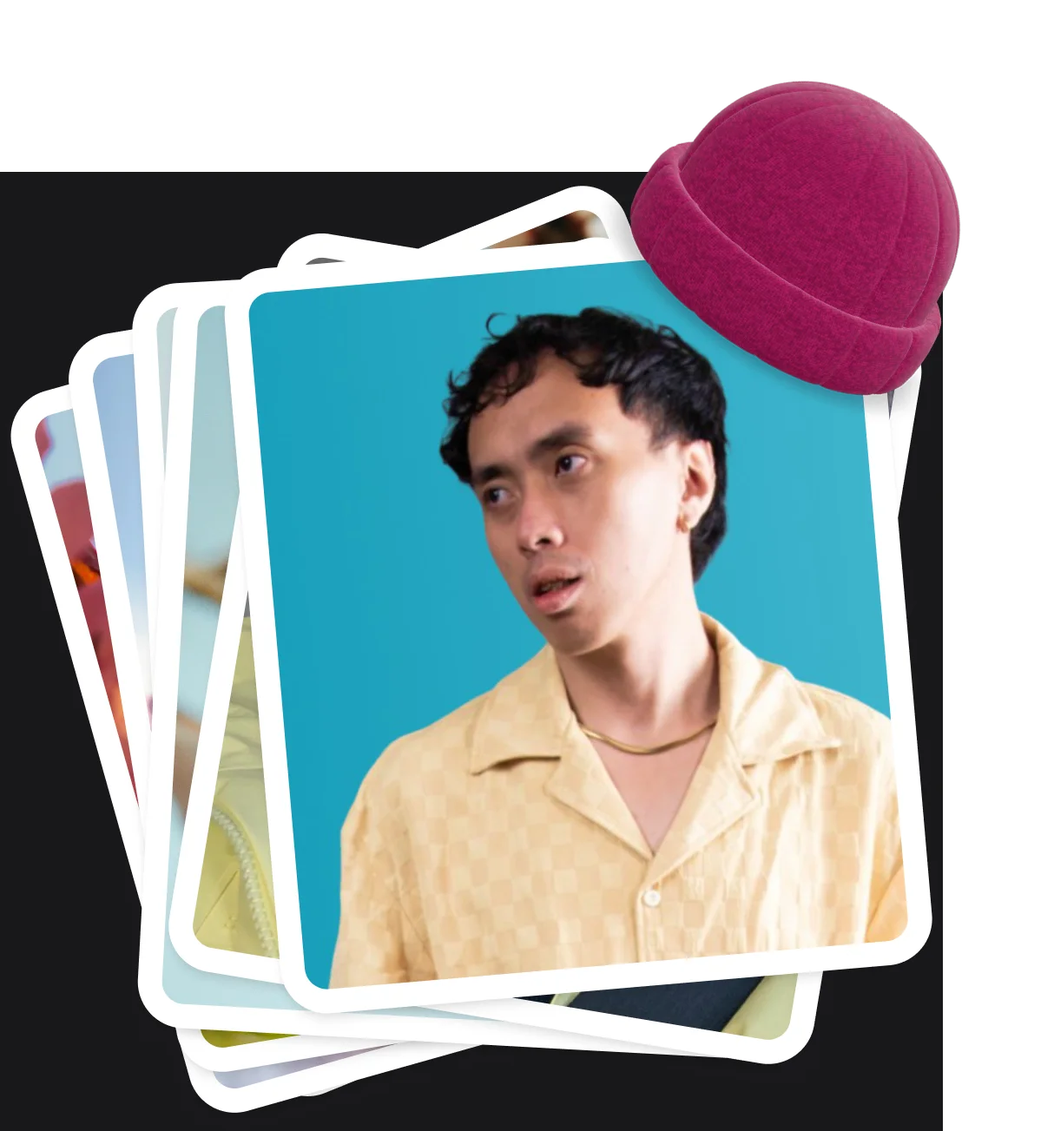
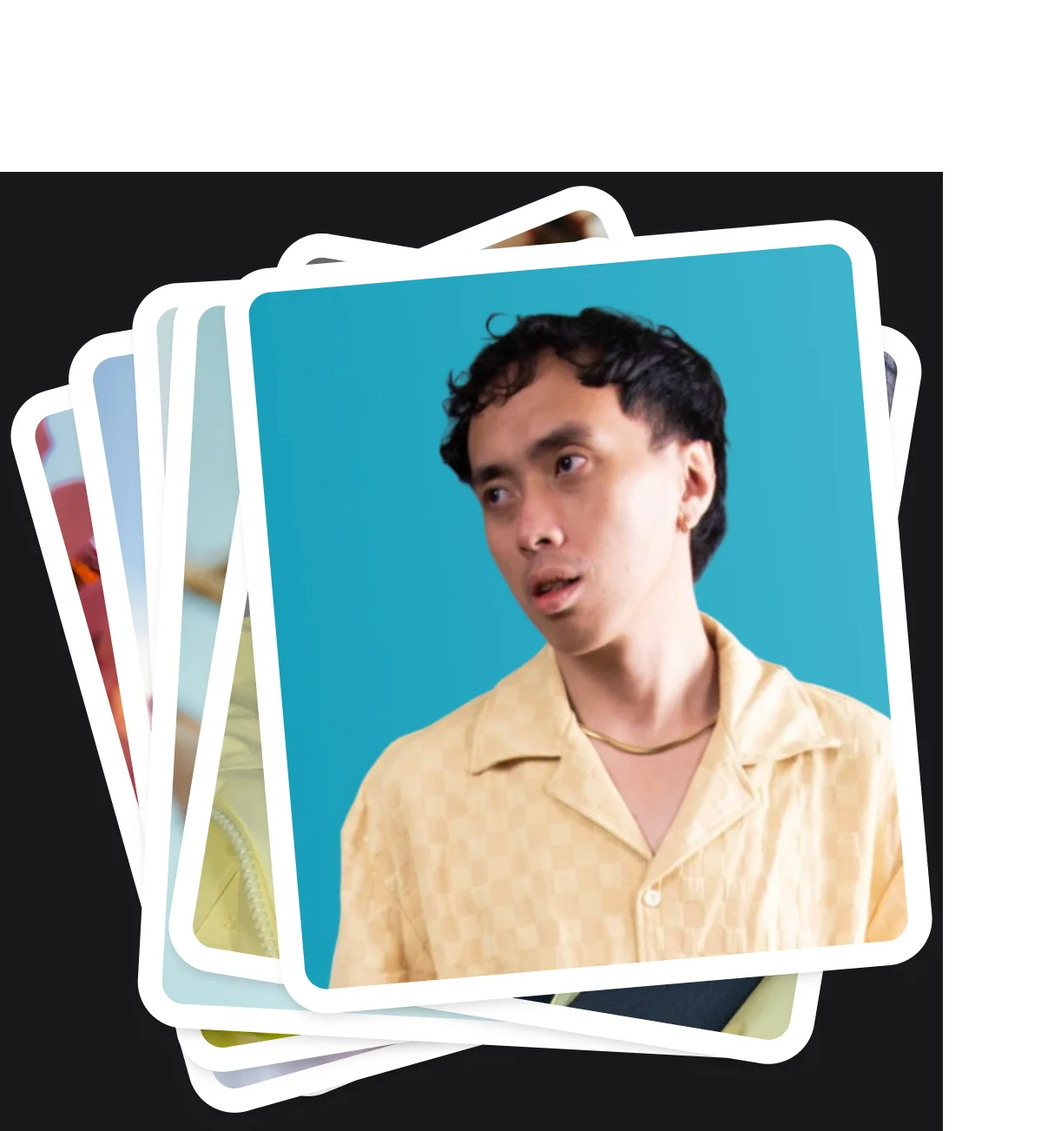
footer to match the design, floating beanie, diamond without shadow

Changed region(s): [[0.5791, 0.0614, 0.9143, 0.3684]]

diff --git a/about.html b/about.html
@@ -50,7 +50,8 @@
     <ul class="about-grid">
       <li class="about-grid-image">
         <figure class="about-image">
-          <img src="/assets/lake-cam--about--photo-stack.webp" width="1214" height="1303" alt="Lake Cam in a yellow shirt against a blue wall, on top of a stack of photos, with a red beanie" />
+          <img src="/assets/lake-cam--about--photo-stack.webp" width="1214" height="1303" alt="Lake Cam in a yellow shirt against a blue wall, on top of a stack of photos" />
+          <img class="about-beanie" src="/assets/lake-cam--about--beanie.webp" width="572" height="542" alt="" />
         </figure>
       </li>
       <li class="about-grid-text">
@@ -225,19 +226,13 @@
             href="mailto:thelakecam@gmail.com"
             aria-label="Email Lake Cam"
           ><span class="button-045__inner" data-button-045-inner="">
-            <svg
-              viewBox="0 0 24 24"
-              fill="none"
-              stroke="currentColor"
-              stroke-width="2"
-              aria-hidden="true"
-              focusable="false"
-            >
-              <path
-                stroke-linecap="round"
-                stroke-linejoin="round"
-                d="M3 8l7.89 5.26a2 2 0 002.22 0L21 8M5 19h14a2 2 0 002-2V7a2 2 0 00-2-2H5a2 2 0 00-2 2v10a2 2 0 002 2z"
-              />
+            <svg viewBox="-1.5 -2 20 20" aria-hidden="true" focusable="false">
+              <path fill="currentColor" d="M12 1H4C2.663 1 1.543 1.881 1.156 3.089L7.504 6.716C7.811 6.892 8.189 6.892 8.496 6.716L14.844 3.089C14.457 1.881 13.337 1 12 1Z" />
+              <g fill="none" stroke="currentColor" stroke-width="2" stroke-linecap="round" stroke-linejoin="round">
+                <path d="M1.156 3.089L7.504 6.716C7.811 6.892 8.189 6.892 8.496 6.716L14.844 3.089" />
+                <path d="M8 15L8.5 12L13.207 7.301C13.598 6.91 14.231 6.91 14.621 7.301L15.707 8.387C16.098 8.778 16.098 9.411 15.707 9.801L11 14.5L8 15Z" />
+                <path d="M14.964 3.644C14.786 2.157 13.535 1 12 1H4C2.343 1 1 2.343 1 4V10C1 11.657 2.343 13 4 13H4.785" />
+              </g>
             </svg>
           </span></a>
           <a
@@ -246,49 +241,8 @@
             aria-label="Lake Cam on LinkedIn"
             target="_blank"
           ><span class="button-045__inner" data-button-045-inner="">
-            <svg
-              viewBox="0 0 24 24"
-              fill="currentColor"
-              aria-hidden="true"
-              focusable="false"
-            >
-              <path
-                d="M19 0h-14c-2.761 0-5 2.239-5 5v14c0 2.761 2.239 5 5 5h14c2.762 0 5-2.239 5-5v-14c0-2.761-2.238-5-5-5zm-11 19h-3v-11h3v11zm-1.5-12.268c-.966 0-1.75-.79-1.75-1.764s.784-1.764 1.75-1.764 1.75.79 1.75 1.764-.783 1.764-1.75 1.764zm13.5 12.268h-3v-5.604c0-3.368-4-3.113-4 0v5.604h-3v-11h3v1.765c1.396-2.586 7-2.777 7 2.476v6.759z"
-              />
-            </svg>
-          </span></a>
-          <a
-            class="social-orb button-045" data-button-045=""
-            href="https://x.com/lakespace"
-            aria-label="Lake Cam on X"
-            target="_blank"
-          ><span class="button-045__inner" data-button-045-inner="">
-            <svg
-              viewBox="0 0 24 24"
-              fill="currentColor"
-              aria-hidden="true"
-              focusable="false"
-            >
-              <path
-                d="M18.244 2.25h3.308l-7.227 8.26 8.502 11.24H16.17l-5.214-6.817L4.99 21.75H1.68l7.73-8.835L1.254 2.25H8.08l4.713 6.231zm-1.161 17.52h1.833L7.084 4.126H5.179z"
-              />
-            </svg>
-          </span></a>
-          <a
-            class="social-orb button-045" data-button-045=""
-            href="https://sublime.app/lakecam"
-            aria-label="Lake Cam on Sublime"
-            target="_blank"
-          ><span class="button-045__inner" data-button-045-inner="">
-            <svg
-              viewBox="3 3 24 24"
-              fill="currentColor"
-              aria-hidden="true"
-              focusable="false"
-            >
-              <path
-                d="M25.982 26.986c0 .006-.165.01-.165.017-.055 0 .055 0 0 0l-21.435-.001a1.32 1.32 0 0 1-.898-.332 1.347 1.347 0 0 1-.48-1.04C3 24.406 3.006 23.183 3 21.961a1.364 1.364 0 0 1 .148-.638c.254-.505.68-.757 1.228-.76 2.173-.013 4.348-.008 6.522-.013.223 0 .453.003.668-.048.345-.08.687-.177 1.01-.336.659-.326 1.188-.784 1.569-1.41.378-.623.615-1.292.58-2.033a6.004 6.004 0 0 0-.079-.797c-.093-.515-.31-.982-.598-1.417-.196-.296-.459-.528-.71-.774-.962-.94-1.92-1.882-2.878-2.824-.345-.338-.684-.685-1.04-1.012-.22-.204-.44-.404-.629-.637-.633-.776-.896-1.663-.795-2.662.038-.371.143-.724.309-1.052a4.165 4.165 0 0 1 1.03-1.326c.534-.452 1.122-.797 1.797-.98.37-.101.743-.186 1.13-.217.326-.027.649-.03.974-.008a5.3 5.3 0 0 1 1.437.309 4.84 4.84 0 0 1 1.814 1.16c.42.43.725.93.915 1.502.013.041.038.08.056.118.019.04.043.077.052.119.086.433.172.867.256 1.3.197 1.006.395 2.011.59 3.017.185.954.366 1.91.547 2.865.072.383.142.765.247 1.141.105.373.314.659.658.832.555.282 1.11.28 1.663-.022.318-.172.525-.424.607-.777.093-.4.19-.8.275-1.202.137-.655.262-1.31.397-1.965.12-.578.252-1.155.372-1.733.1-.476.185-.954.282-1.43.085-.416.177-.83.27-1.246.037-.166.061-.34.13-.493.292-.643 1.034-.932 1.703-.88.332.025.629.144.905.334.392.269.581.634.584 1.1C27 8.206 27 9.344 27 10.484V25.64c-.015.475-.201.864-.599 1.134-.132.09-.286.146-.42.213.352 0-.366 0 0 0Z"
-              />
+            <svg viewBox="0 0 20 20" aria-hidden="true" focusable="false">
+              <path fill="currentColor" d="M15.8333 0H4.16667C1.86583 0 0 1.86583 0 4.16667V15.8333C0 18.1342 1.86583 20 4.16667 20H15.8333C18.135 20 20 18.1342 20 15.8333V4.16667C20 1.86583 18.135 0 15.8333 0ZM6.66667 15.8333H4.16667V6.66667H6.66667V15.8333ZM5.41667 5.61C4.61167 5.61 3.95833 4.95167 3.95833 4.14C3.95833 3.32833 4.61167 2.67 5.41667 2.67C6.22167 2.67 6.875 3.32833 6.875 4.14C6.875 4.95167 6.2225 5.61 5.41667 5.61ZM16.6667 15.8333H14.1667V11.1633C14.1667 8.35667 10.8333 8.56917 10.8333 11.1633V15.8333H8.33333V6.66667H10.8333V8.1375C11.9967 5.9825 16.6667 5.82333 16.6667 10.2008V15.8333Z" />
             </svg>
           </span></a>
           <a
@@ -297,15 +251,28 @@
             aria-label="Lake Cam on GitHub"
             target="_blank"
           ><span class="button-045__inner" data-button-045-inner="">
-            <svg
-              viewBox="0 0 24 24"
-              fill="currentColor"
-              aria-hidden="true"
-              focusable="false"
-            >
-              <path
-                d="M12 0c-6.626 0-12 5.373-12 12 0 5.302 3.438 9.8 8.207 11.387.599.111.793-.261.793-.577v-2.234c-3.338.726-4.033-1.416-4.033-1.416-.546-1.387-1.333-1.756-1.333-1.756-1.089-.745.083-.729.083-.729 1.205.084 1.839 1.237 1.839 1.237 1.07 1.834 2.807 1.304 3.492.997.107-.775.418-1.305.762-1.604-2.665-.305-5.467-1.334-5.467-5.931 0-1.311.469-2.381 1.236-3.221-.124-.303-.535-1.524.117-3.176 0 0 1.008-.322 3.301 1.23.957-.266 1.983-.399 3.003-.404 1.02.005 2.047.138 3.006.404 2.291-1.552 3.297-1.23 3.297-1.23.653 1.653.242 2.874.118 3.176.77.84 1.235 1.911 1.235 3.221 0 4.609-2.807 5.624-5.479 5.921.43.372.823 1.102.823 2.222v3.293c0 .319.192.694.801.576 4.769-1.584 8.2-6.085 8.2-11.386 0-6.627-5.373-12-12-12z"
-              />
+            <svg viewBox="0 -0.25 20 20" aria-hidden="true" focusable="false">
+              <path fill="currentColor" d="M10 0C4.47833 0 0 4.4775 0 10C0 14.4183 2.865 18.1667 6.83917 19.4892C7.33833 19.5817 7.5 19.2717 7.5 19.0083V17.1467C4.71833 17.7517 4.13917 15.9667 4.13917 15.9667C3.68417 14.8108 3.02833 14.5033 3.02833 14.5033C2.12083 13.8825 3.0975 13.8958 3.0975 13.8958C4.10167 13.9658 4.63 14.9267 4.63 14.9267C5.52167 16.455 6.96917 16.0133 7.54 15.7575C7.62917 15.1117 7.88833 14.67 8.175 14.4208C5.95417 14.1667 3.61917 13.3092 3.61917 9.47833C3.61917 8.38583 4.01 7.49417 4.64917 6.79417C4.54583 6.54167 4.20333 5.52417 4.74667 4.1475C4.74667 4.1475 5.58667 3.87917 7.4975 5.1725C8.295 4.95083 9.15 4.84 10 4.83583C10.85 4.84 11.7058 4.95083 12.505 5.1725C14.4142 3.87917 15.2525 4.1475 15.2525 4.1475C15.7967 5.525 15.4542 6.5425 15.3508 6.79417C15.9925 7.49417 16.38 8.38667 16.38 9.47833C16.38 13.3192 14.0408 14.165 11.8142 14.4125C12.1725 14.7225 12.5 15.3308 12.5 16.2642V19.0083C12.5 19.2742 12.66 19.5867 13.1675 19.4883C17.1417 18.1683 20.0008 14.4175 20.0008 10C20.0008 4.4775 15.5233 0 10.0008 0H10Z" />
+            </svg>
+          </span></a>
+          <a
+            class="social-orb button-045" data-button-045=""
+            href="https://x.com/lakespace"
+            aria-label="Lake Cam on X"
+            target="_blank"
+          ><span class="button-045__inner" data-button-045-inner="">
+            <svg viewBox="-1 -1.875 20 20" aria-hidden="true" focusable="false">
+              <path fill="currentColor" d="M14.1583 0H16.915L10.8925 6.88333L17.9775 16.25H12.43L8.085 10.5692L3.11333 16.25H0.355L6.79667 8.8875L0 0H5.68833L9.61583 5.1925L14.1583 0ZM13.1908 14.6H14.7183L4.85833 1.56333H3.27083L13.1908 14.6Z" />
+            </svg>
+          </span></a>
+          <a
+            class="social-orb button-045" data-button-045=""
+            href="https://sublime.app/lakecam"
+            aria-label="Lake Cam on Sublime"
+            target="_blank"
+          ><span class="button-045__inner" data-button-045-inner="">
+            <svg viewBox="0 0 20 20" aria-hidden="true" focusable="false">
+              <path fill="currentColor" d="M19.1518 19.9863C19.1518 19.9913 19.0143 19.9947 19.0143 20.0005C19.0601 20.0005 18.9685 20.0005 19.0143 20.0005L1.15179 19.9997C0.876508 20.0043 0.609484 19.9056 0.403453 19.723C0.277187 19.6168 0.17588 19.4841 0.106743 19.3343C0.0376062 19.1845 0.00233942 19.0213 0.0034529 18.8563C0.000119569 17.8363 0.00511961 16.8172 0.000119612 15.7988C-0.00255853 15.6142 0.0397728 15.4317 0.123453 15.2672C0.33512 14.8463 0.69012 14.6363 1.14679 14.6338C2.95762 14.623 4.77012 14.6272 6.58179 14.623C6.76762 14.623 6.95929 14.6255 7.13845 14.583C7.42595 14.5163 7.71095 14.4355 7.98012 14.303C8.52929 14.0313 8.97012 13.6497 9.28762 13.128C9.60262 12.6088 9.80012 12.0513 9.77095 11.4338C9.76382 11.2112 9.74182 10.9893 9.70512 10.7697C9.62762 10.3405 9.44679 9.95134 9.20679 9.58884C9.04345 9.34217 8.82429 9.14884 8.61512 8.94384C7.81345 8.1605 7.01512 7.37551 6.21679 6.59051C5.92929 6.30884 5.64679 6.01967 5.35012 5.74717C5.16679 5.57717 4.98345 5.41051 4.82595 5.21634C4.29845 4.56967 4.07929 3.83051 4.16345 2.99801C4.19512 2.68884 4.28262 2.39467 4.42095 2.12134C4.62908 1.69856 4.92113 1.32258 5.27929 1.01634C5.72429 0.639672 6.21429 0.352172 6.77679 0.199672C7.08512 0.115505 7.39595 0.044672 7.71845 0.0188387C7.99012 -0.00366133 8.25929 -0.00616144 8.53012 0.0121719C8.93931 0.0419696 9.34235 0.128636 9.72762 0.269672C10.2977 0.474302 10.8144 0.804699 11.2393 1.23634C11.5893 1.59467 11.8435 2.01134 12.0018 2.48801C12.0126 2.52217 12.0335 2.55467 12.0485 2.58634C12.0643 2.61967 12.0843 2.65051 12.0918 2.68551C12.1635 3.04634 12.2351 3.40801 12.3051 3.76884C12.4693 4.60717 12.6343 5.44467 12.7968 6.283C12.951 7.078 13.1018 7.87467 13.2526 8.6705C13.3126 8.98967 13.371 9.30801 13.4585 9.62134C13.546 9.93217 13.7201 10.1705 14.0068 10.3147C14.4693 10.5497 14.9318 10.548 15.3926 10.2963C15.6576 10.153 15.8301 9.94301 15.8985 9.64884C15.976 9.31551 16.0568 8.98217 16.1276 8.64717C16.2418 8.10134 16.346 7.5555 16.4585 7.00967C16.5585 6.528 16.6685 6.04717 16.7685 5.56551C16.8518 5.16884 16.9226 4.77051 17.0035 4.37384C17.0743 4.02717 17.151 3.68217 17.2285 3.33551C17.2593 3.19717 17.2793 3.05217 17.3368 2.92467C17.5801 2.38884 18.1985 2.14801 18.756 2.19134C19.0326 2.21217 19.2801 2.31134 19.5101 2.46967C19.8368 2.69384 19.9943 2.99801 19.9968 3.38634C20.0001 4.33634 20.0001 5.28467 20.0001 6.23467V18.8647C19.9876 19.2605 19.8326 19.5847 19.501 19.8097C19.391 19.8847 19.2626 19.9313 19.151 19.9872C19.4443 19.9872 18.846 19.9872 19.151 19.9872L19.1518 19.9863Z" />
             </svg>
           </span></a>
         </div>

diff --git a/includes/footer-1.html b/includes/footer-1.html
@@ -24,19 +24,13 @@ Shared footer: edit here to update the footer across your site
         href="mailto:thelakecam@gmail.com"
         aria-label="Email Lake Cam"
       ><span class="button-045__inner" data-button-045-inner="">
-        <svg
-          viewBox="0 0 24 24"
-          fill="none"
-          stroke="currentColor"
-          stroke-width="2"
-          aria-hidden="true"
-          focusable="false"
-        >
-          <path
-            stroke-linecap="round"
-            stroke-linejoin="round"
-            d="M3 8l7.89 5.26a2 2 0 002.22 0L21 8M5 19h14a2 2 0 002-2V7a2 2 0 00-2-2H5a2 2 0 00-2 2v10a2 2 0 002 2z"
-          />
+        <svg viewBox="-1.5 -2 20 20" aria-hidden="true" focusable="false">
+          <path fill="currentColor" d="M12 1H4C2.663 1 1.543 1.881 1.156 3.089L7.504 6.716C7.811 6.892 8.189 6.892 8.496 6.716L14.844 3.089C14.457 1.881 13.337 1 12 1Z" />
+          <g fill="none" stroke="currentColor" stroke-width="2" stroke-linecap="round" stroke-linejoin="round">
+            <path d="M1.156 3.089L7.504 6.716C7.811 6.892 8.189 6.892 8.496 6.716L14.844 3.089" />
+            <path d="M8 15L8.5 12L13.207 7.301C13.598 6.91 14.231 6.91 14.621 7.301L15.707 8.387C16.098 8.778 16.098 9.411 15.707 9.801L11 14.5L8 15Z" />
+            <path d="M14.964 3.644C14.786 2.157 13.535 1 12 1H4C2.343 1 1 2.343 1 4V10C1 11.657 2.343 13 4 13H4.785" />
+          </g>
         </svg>
       </span></a>
       <a
@@ -45,49 +39,8 @@ Shared footer: edit here to update the footer across your site
         aria-label="Lake Cam on LinkedIn"
         target="_blank"
       ><span class="button-045__inner" data-button-045-inner="">
-        <svg
-          viewBox="0 0 24 24"
-          fill="currentColor"
-          aria-hidden="true"
-          focusable="false"
-        >
-          <path
-            d="M19 0h-14c-2.761 0-5 2.239-5 5v14c0 2.761 2.239 5 5 5h14c2.762 0 5-2.239 5-5v-14c0-2.761-2.238-5-5-5zm-11 19h-3v-11h3v11zm-1.5-12.268c-.966 0-1.75-.79-1.75-1.764s.784-1.764 1.75-1.764 1.75.79 1.75 1.764-.783 1.764-1.75 1.764zm13.5 12.268h-3v-5.604c0-3.368-4-3.113-4 0v5.604h-3v-11h3v1.765c1.396-2.586 7-2.777 7 2.476v6.759z"
-          />
-        </svg>
-      </span></a>
-      <a
-        class="social-orb button-045" data-button-045=""
-        href="https://x.com/lakespace"
-        aria-label="Lake Cam on X"
-        target="_blank"
-      ><span class="button-045__inner" data-button-045-inner="">
-        <svg
-          viewBox="0 0 24 24"
-          fill="currentColor"
-          aria-hidden="true"
-          focusable="false"
-        >
-          <path
-            d="M18.244 2.25h3.308l-7.227 8.26 8.502 11.24H16.17l-5.214-6.817L4.99 21.75H1.68l7.73-8.835L1.254 2.25H8.08l4.713 6.231zm-1.161 17.52h1.833L7.084 4.126H5.179z"
-          />
-        </svg>
-      </span></a>
-      <a
-        class="social-orb button-045" data-button-045=""
-        href="https://sublime.app/lakecam"
-        aria-label="Lake Cam on Sublime"
-        target="_blank"
-      ><span class="button-045__inner" data-button-045-inner="">
-        <svg
-          viewBox="3 3 24 24"
-          fill="currentColor"
-          aria-hidden="true"
-          focusable="false"
-        >
-          <path
-            d="M25.982 26.986c0 .006-.165.01-.165.017-.055 0 .055 0 0 0l-21.435-.001a1.32 1.32 0 0 1-.898-.332 1.347 1.347 0 0 1-.48-1.04C3 24.406 3.006 23.183 3 21.961a1.364 1.364 0 0 1 .148-.638c.254-.505.68-.757 1.228-.76 2.173-.013 4.348-.008 6.522-.013.223 0 .453.003.668-.048.345-.08.687-.177 1.01-.336.659-.326 1.188-.784 1.569-1.41.378-.623.615-1.292.58-2.033a6.004 6.004 0 0 0-.079-.797c-.093-.515-.31-.982-.598-1.417-.196-.296-.459-.528-.71-.774-.962-.94-1.92-1.882-2.878-2.824-.345-.338-.684-.685-1.04-1.012-.22-.204-.44-.404-.629-.637-.633-.776-.896-1.663-.795-2.662.038-.371.143-.724.309-1.052a4.165 4.165 0 0 1 1.03-1.326c.534-.452 1.122-.797 1.797-.98.37-.101.743-.186 1.13-.217.326-.027.649-.03.974-.008a5.3 5.3 0 0 1 1.437.309 4.84 4.84 0 0 1 1.814 1.16c.42.43.725.93.915 1.502.013.041.038.08.056.118.019.04.043.077.052.119.086.433.172.867.256 1.3.197 1.006.395 2.011.59 3.017.185.954.366 1.91.547 2.865.072.383.142.765.247 1.141.105.373.314.659.658.832.555.282 1.11.28 1.663-.022.318-.172.525-.424.607-.777.093-.4.19-.8.275-1.202.137-.655.262-1.31.397-1.965.12-.578.252-1.155.372-1.733.1-.476.185-.954.282-1.43.085-.416.177-.83.27-1.246.037-.166.061-.34.13-.493.292-.643 1.034-.932 1.703-.88.332.025.629.144.905.334.392.269.581.634.584 1.1C27 8.206 27 9.344 27 10.484V25.64c-.015.475-.201.864-.599 1.134-.132.09-.286.146-.42.213.352 0-.366 0 0 0Z"
-          />
+        <svg viewBox="0 0 20 20" aria-hidden="true" focusable="false">
+          <path fill="currentColor" d="M15.8333 0H4.16667C1.86583 0 0 1.86583 0 4.16667V15.8333C0 18.1342 1.86583 20 4.16667 20H15.8333C18.135 20 20 18.1342 20 15.8333V4.16667C20 1.86583 18.135 0 15.8333 0ZM6.66667 15.8333H4.16667V6.66667H6.66667V15.8333ZM5.41667 5.61C4.61167 5.61 3.95833 4.95167 3.95833 4.14C3.95833 3.32833 4.61167 2.67 5.41667 2.67C6.22167 2.67 6.875 3.32833 6.875 4.14C6.875 4.95167 6.2225 5.61 5.41667 5.61ZM16.6667 15.8333H14.1667V11.1633C14.1667 8.35667 10.8333 8.56917 10.8333 11.1633V15.8333H8.33333V6.66667H10.8333V8.1375C11.9967 5.9825 16.6667 5.82333 16.6667 10.2008V15.8333Z" />
         </svg>
       </span></a>
       <a
@@ -96,15 +49,28 @@ Shared footer: edit here to update the footer across your site
         aria-label="Lake Cam on GitHub"
         target="_blank"
       ><span class="button-045__inner" data-button-045-inner="">
-        <svg
-          viewBox="0 0 24 24"
-          fill="currentColor"
-          aria-hidden="true"
-          focusable="false"
-        >
-          <path
-            d="M12 0c-6.626 0-12 5.373-12 12 0 5.302 3.438 9.8 8.207 11.387.599.111.793-.261.793-.577v-2.234c-3.338.726-4.033-1.416-4.033-1.416-.546-1.387-1.333-1.756-1.333-1.756-1.089-.745.083-.729.083-.729 1.205.084 1.839 1.237 1.839 1.237 1.07 1.834 2.807 1.304 3.492.997.107-.775.418-1.305.762-1.604-2.665-.305-5.467-1.334-5.467-5.931 0-1.311.469-2.381 1.236-3.221-.124-.303-.535-1.524.117-3.176 0 0 1.008-.322 3.301 1.23.957-.266 1.983-.399 3.003-.404 1.02.005 2.047.138 3.006.404 2.291-1.552 3.297-1.23 3.297-1.23.653 1.653.242 2.874.118 3.176.77.84 1.235 1.911 1.235 3.221 0 4.609-2.807 5.624-5.479 5.921.43.372.823 1.102.823 2.222v3.293c0 .319.192.694.801.576 4.769-1.584 8.2-6.085 8.2-11.386 0-6.627-5.373-12-12-12z"
-          />
+        <svg viewBox="0 -0.25 20 20" aria-hidden="true" focusable="false">
+          <path fill="currentColor" d="M10 0C4.47833 0 0 4.4775 0 10C0 14.4183 2.865 18.1667 6.83917 19.4892C7.33833 19.5817 7.5 19.2717 7.5 19.0083V17.1467C4.71833 17.7517 4.13917 15.9667 4.13917 15.9667C3.68417 14.8108 3.02833 14.5033 3.02833 14.5033C2.12083 13.8825 3.0975 13.8958 3.0975 13.8958C4.10167 13.9658 4.63 14.9267 4.63 14.9267C5.52167 16.455 6.96917 16.0133 7.54 15.7575C7.62917 15.1117 7.88833 14.67 8.175 14.4208C5.95417 14.1667 3.61917 13.3092 3.61917 9.47833C3.61917 8.38583 4.01 7.49417 4.64917 6.79417C4.54583 6.54167 4.20333 5.52417 4.74667 4.1475C4.74667 4.1475 5.58667 3.87917 7.4975 5.1725C8.295 4.95083 9.15 4.84 10 4.83583C10.85 4.84 11.7058 4.95083 12.505 5.1725C14.4142 3.87917 15.2525 4.1475 15.2525 4.1475C15.7967 5.525 15.4542 6.5425 15.3508 6.79417C15.9925 7.49417 16.38 8.38667 16.38 9.47833C16.38 13.3192 14.0408 14.165 11.8142 14.4125C12.1725 14.7225 12.5 15.3308 12.5 16.2642V19.0083C12.5 19.2742 12.66 19.5867 13.1675 19.4883C17.1417 18.1683 20.0008 14.4175 20.0008 10C20.0008 4.4775 15.5233 0 10.0008 0H10Z" />
+        </svg>
+      </span></a>
+      <a
+        class="social-orb button-045" data-button-045=""
+        href="https://x.com/lakespace"
+        aria-label="Lake Cam on X"
+        target="_blank"
+      ><span class="button-045__inner" data-button-045-inner="">
+        <svg viewBox="-1 -1.875 20 20" aria-hidden="true" focusable="false">
+          <path fill="currentColor" d="M14.1583 0H16.915L10.8925 6.88333L17.9775 16.25H12.43L8.085 10.5692L3.11333 16.25H0.355L6.79667 8.8875L0 0H5.68833L9.61583 5.1925L14.1583 0ZM13.1908 14.6H14.7183L4.85833 1.56333H3.27083L13.1908 14.6Z" />
+        </svg>
+      </span></a>
+      <a
+        class="social-orb button-045" data-button-045=""
+        href="https://sublime.app/lakecam"
+        aria-label="Lake Cam on Sublime"
+        target="_blank"
+      ><span class="button-045__inner" data-button-045-inner="">
+        <svg viewBox="0 0 20 20" aria-hidden="true" focusable="false">
+          <path fill="currentColor" d="M19.1518 19.9863C19.1518 19.9913 19.0143 19.9947 19.0143 20.0005C19.0601 20.0005 18.9685 20.0005 19.0143 20.0005L1.15179 19.9997C0.876508 20.0043 0.609484 19.9056 0.403453 19.723C0.277187 19.6168 0.17588 19.4841 0.106743 19.3343C0.0376062 19.1845 0.00233942 19.0213 0.0034529 18.8563C0.000119569 17.8363 0.00511961 16.8172 0.000119612 15.7988C-0.00255853 15.6142 0.0397728 15.4317 0.123453 15.2672C0.33512 14.8463 0.69012 14.6363 1.14679 14.6338C2.95762 14.623 4.77012 14.6272 6.58179 14.623C6.76762 14.623 6.95929 14.6255 7.13845 14.583C7.42595 14.5163 7.71095 14.4355 7.98012 14.303C8.52929 14.0313 8.97012 13.6497 9.28762 13.128C9.60262 12.6088 9.80012 12.0513 9.77095 11.4338C9.76382 11.2112 9.74182 10.9893 9.70512 10.7697C9.62762 10.3405 9.44679 9.95134 9.20679 9.58884C9.04345 9.34217 8.82429 9.14884 8.61512 8.94384C7.81345 8.1605 7.01512 7.37551 6.21679 6.59051C5.92929 6.30884 5.64679 6.01967 5.35012 5.74717C5.16679 5.57717 4.98345 5.41051 4.82595 5.21634C4.29845 4.56967 4.07929 3.83051 4.16345 2.99801C4.19512 2.68884 4.28262 2.39467 4.42095 2.12134C4.62908 1.69856 4.92113 1.32258 5.27929 1.01634C5.72429 0.639672 6.21429 0.352172 6.77679 0.199672C7.08512 0.115505 7.39595 0.044672 7.71845 0.0188387C7.99012 -0.00366133 8.25929 -0.00616144 8.53012 0.0121719C8.93931 0.0419696 9.34235 0.128636 9.72762 0.269672C10.2977 0.474302 10.8144 0.804699 11.2393 1.23634C11.5893 1.59467 11.8435 2.01134 12.0018 2.48801C12.0126 2.52217 12.0335 2.55467 12.0485 2.58634C12.0643 2.61967 12.0843 2.65051 12.0918 2.68551C12.1635 3.04634 12.2351 3.40801 12.3051 3.76884C12.4693 4.60717 12.6343 5.44467 12.7968 6.283C12.951 7.078 13.1018 7.87467 13.2526 8.6705C13.3126 8.98967 13.371 9.30801 13.4585 9.62134C13.546 9.93217 13.7201 10.1705 14.0068 10.3147C14.4693 10.5497 14.9318 10.548 15.3926 10.2963C15.6576 10.153 15.8301 9.94301 15.8985 9.64884C15.976 9.31551 16.0568 8.98217 16.1276 8.64717C16.2418 8.10134 16.346 7.5555 16.4585 7.00967C16.5585 6.528 16.6685 6.04717 16.7685 5.56551C16.8518 5.16884 16.9226 4.77051 17.0035 4.37384C17.0743 4.02717 17.151 3.68217 17.2285 3.33551C17.2593 3.19717 17.2793 3.05217 17.3368 2.92467C17.5801 2.38884 18.1985 2.14801 18.756 2.19134C19.0326 2.21217 19.2801 2.31134 19.5101 2.46967C19.8368 2.69384 19.9943 2.99801 19.9968 3.38634C20.0001 4.33634 20.0001 5.28467 20.0001 6.23467V18.8647C19.9876 19.2605 19.8326 19.5847 19.501 19.8097C19.391 19.8847 19.2626 19.9313 19.151 19.9872C19.4443 19.9872 18.846 19.9872 19.151 19.9872L19.1518 19.9863Z" />
         </svg>
       </span></a>
     </div>

diff --git a/styles/style.css b/styles/style.css
@@ -1501,11 +1501,25 @@ a.nav-link-primary:hover {
   grid-gap: 1.5rem;
 }
 
+.about-image {
+  position: relative; /* The beanie sits on top of the photos */
+  width: min(100%, 29rem);
+  margin: 0 auto;
+}
+
 .about-image img {
   display: block;
-  width: min(100%, 29rem);
+  width: 100%;
   height: auto;
-  margin-inline: auto;
+}
+
+/* Beanie floats over the top corner of the photos */
+.about-image .about-beanie {
+  position: absolute;
+  top: 0;
+  left: 53%;
+  width: 47.1%;
+  animation: about-float 5s ease-in-out -1.5s infinite;
 }
 
 /* Long words can't push the page wider */
@@ -1764,14 +1778,36 @@ a.nav-link-primary:hover {
 }
 
 @media (prefers-reduced-motion: reduce) {
-  .about-diamond {
+  .about-diamond,
+  .about-image .about-beanie {
     animation: none;
   }
 }
 
-/* Footer line in white so it shows on the dark page */
+/* Footer on the dark page: light text and dark glass orbs */
 .about-page .footer-fineprint {
+  font-weight: 200;
   color: rgb(255 255 255 / 0.6);
+}
+
+.about-page .site-footer .social-orb {
+  color: var(--neutral-100);
+}
+
+.about-page .site-footer .social-orb .button-045__inner {
+  border-color: rgb(113 113 123 / 0.5);
+  background-color: rgb(255 255 255 / 0.08);
+  -webkit-backdrop-filter: blur(45px);
+  backdrop-filter: blur(45px);
+  box-shadow: 2px 2px 20px -2px rgb(255 255 255 / 0.08);
+}
+
+@media (hover: hover) and (pointer: fine) {
+  .about-page .site-footer .social-orb:hover .button-045__inner {
+    border-color: rgb(113 113 123 / 0.8);
+    background-color: rgb(255 255 255 / 0.16);
+    box-shadow: 2px 2px 20px -2px rgb(255 255 255 / 0.12);
+  }
 }
 
 /* 
@@ -1797,7 +1833,7 @@ a.nav-link-primary:hover {
   display: flex;
   flex-direction: column;
   justify-content: flex-end;
-  min-height: clamp(22rem, 36vw, 38rem);
+  min-height: clamp(22rem, 30vw, 32.375rem);
   background: linear-gradient(
     to bottom,
     var(--neutral-50) 0%,
@@ -1847,18 +1883,18 @@ a.nav-link-primary:hover {
   --button-045-border-radius: 999px;
   --button-045-color-focus: var(--color-focus-footer);
   --button-045-focus-inset: -3px;
-  color: var(--color-text-footer);
+  color: var(--neutral-700);
 }
 
 .site-footer .social-orb .button-045__inner {
   width: 44px;
   height: 44px;
   padding: 0;
-  border: 1px solid rgb(255 255 255 / 0.7);
-  background-color: rgb(255 255 255 / 0.45);
-  -webkit-backdrop-filter: blur(10px) saturate(1.3);
-  backdrop-filter: blur(10px) saturate(1.3);
-  box-shadow: 0 2px 8px -2px rgb(11 42 60 / 0.12);
+  border: 1px solid rgb(212 212 216 / 0.6);
+  background-color: rgb(255 255 255 / 0.2);
+  -webkit-backdrop-filter: blur(16px);
+  backdrop-filter: blur(16px);
+  box-shadow: 2px 2px 8px -2px rgb(11 42 60 / 0.1);
   transition:
     background-color 180ms cubic-bezier(0.16, 1, 0.3, 1),
     border-color 180ms cubic-bezier(0.16, 1, 0.3, 1),
@@ -1987,9 +2023,9 @@ a.nav-link-primary:hover {
 .footer-fineprint {
   margin: 0;
   font-family: var(--font-accent);
-  font-size: 0.6875rem; /* Slightly smaller for disclaimers or captions */
+  font-size: 0.75rem; /* Slightly smaller for disclaimers or captions */
   font-weight: 500;
-  letter-spacing: 0.08em;
+  letter-spacing: 0;
   text-transform: uppercase;
   color: var(--color-text-footer);
 }
@@ -2802,11 +2838,8 @@ to keep your styles reusable and consistent.
 
   /* The beanie pokes up above the top of the About card */
   .about-image {
-    margin-top: -10.5%;
-  }
-
-  .about-image img {
     width: 95%;
+    margin-top: -10.5%;
     margin-left: 2%;
   }
 
